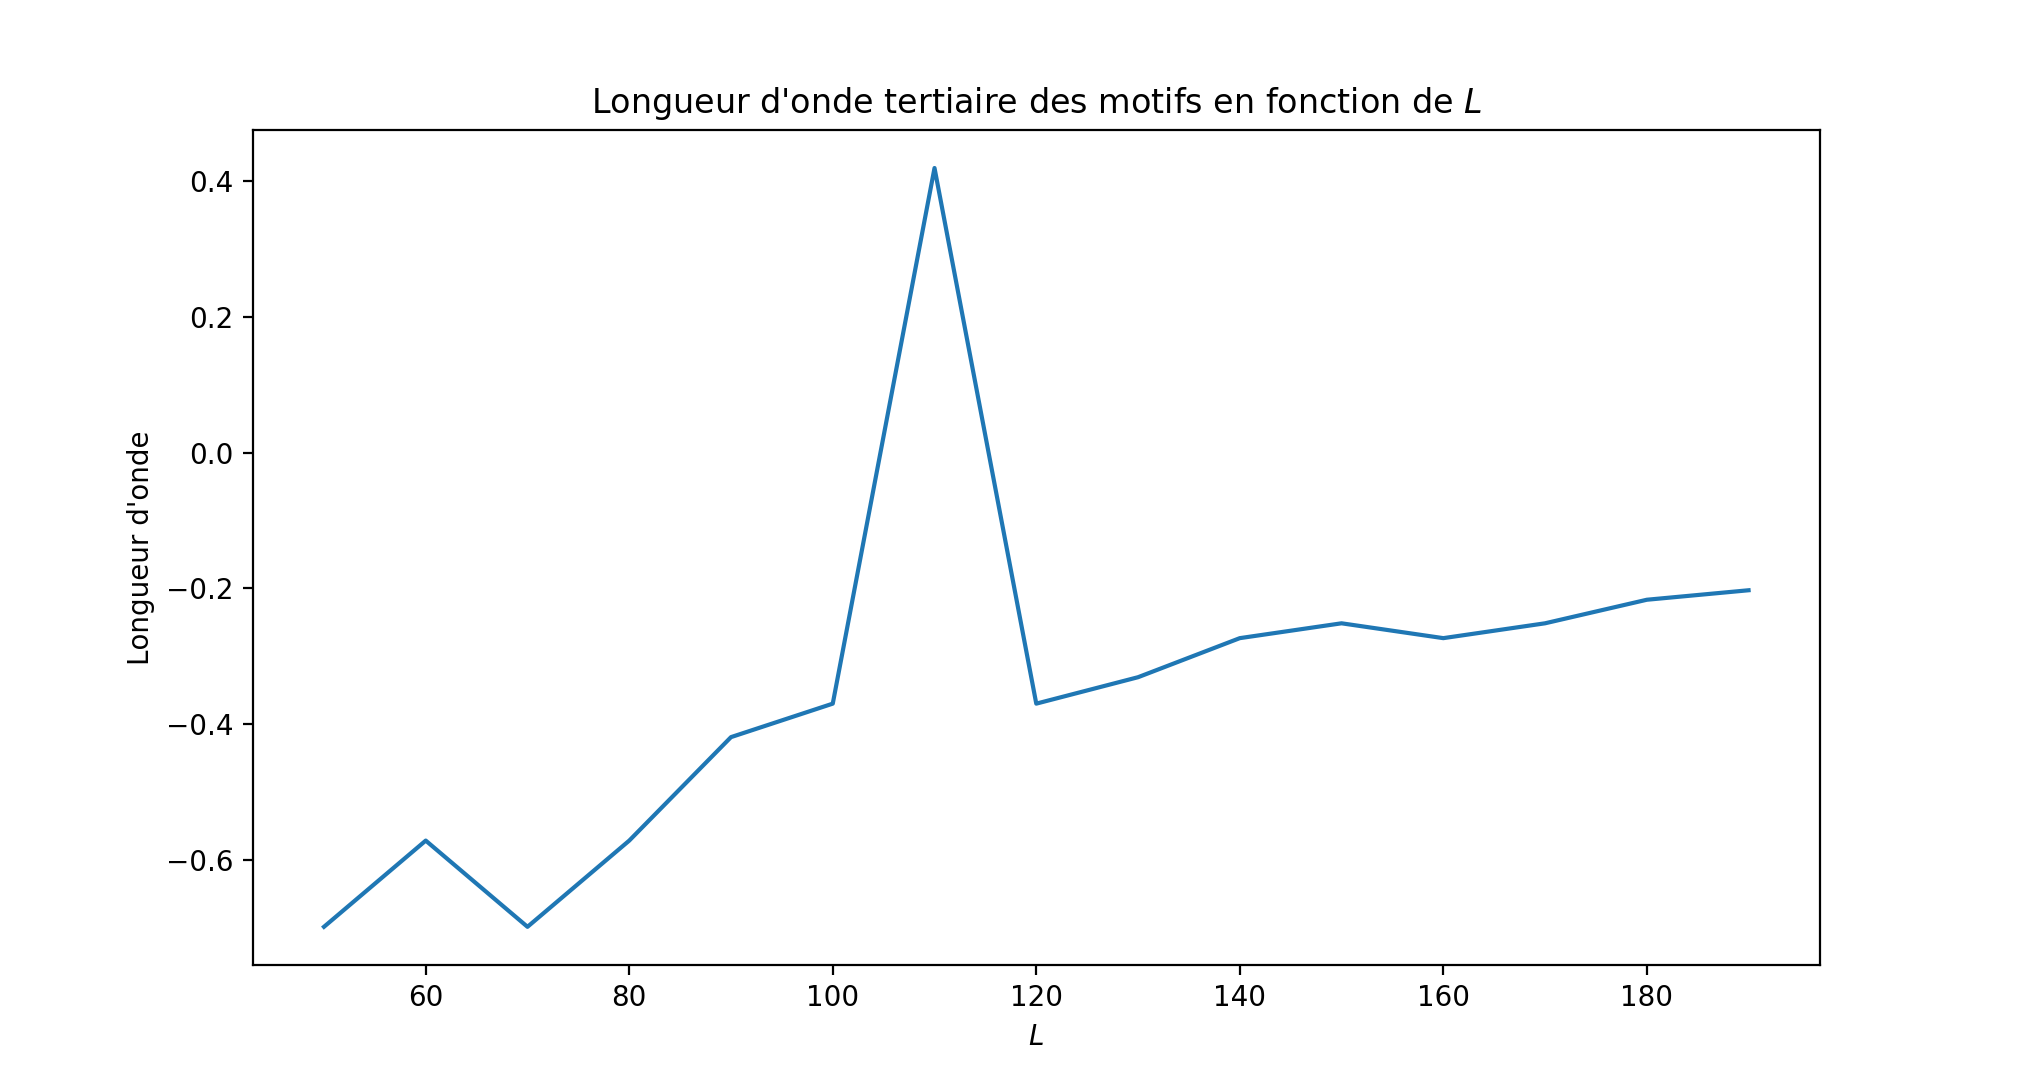
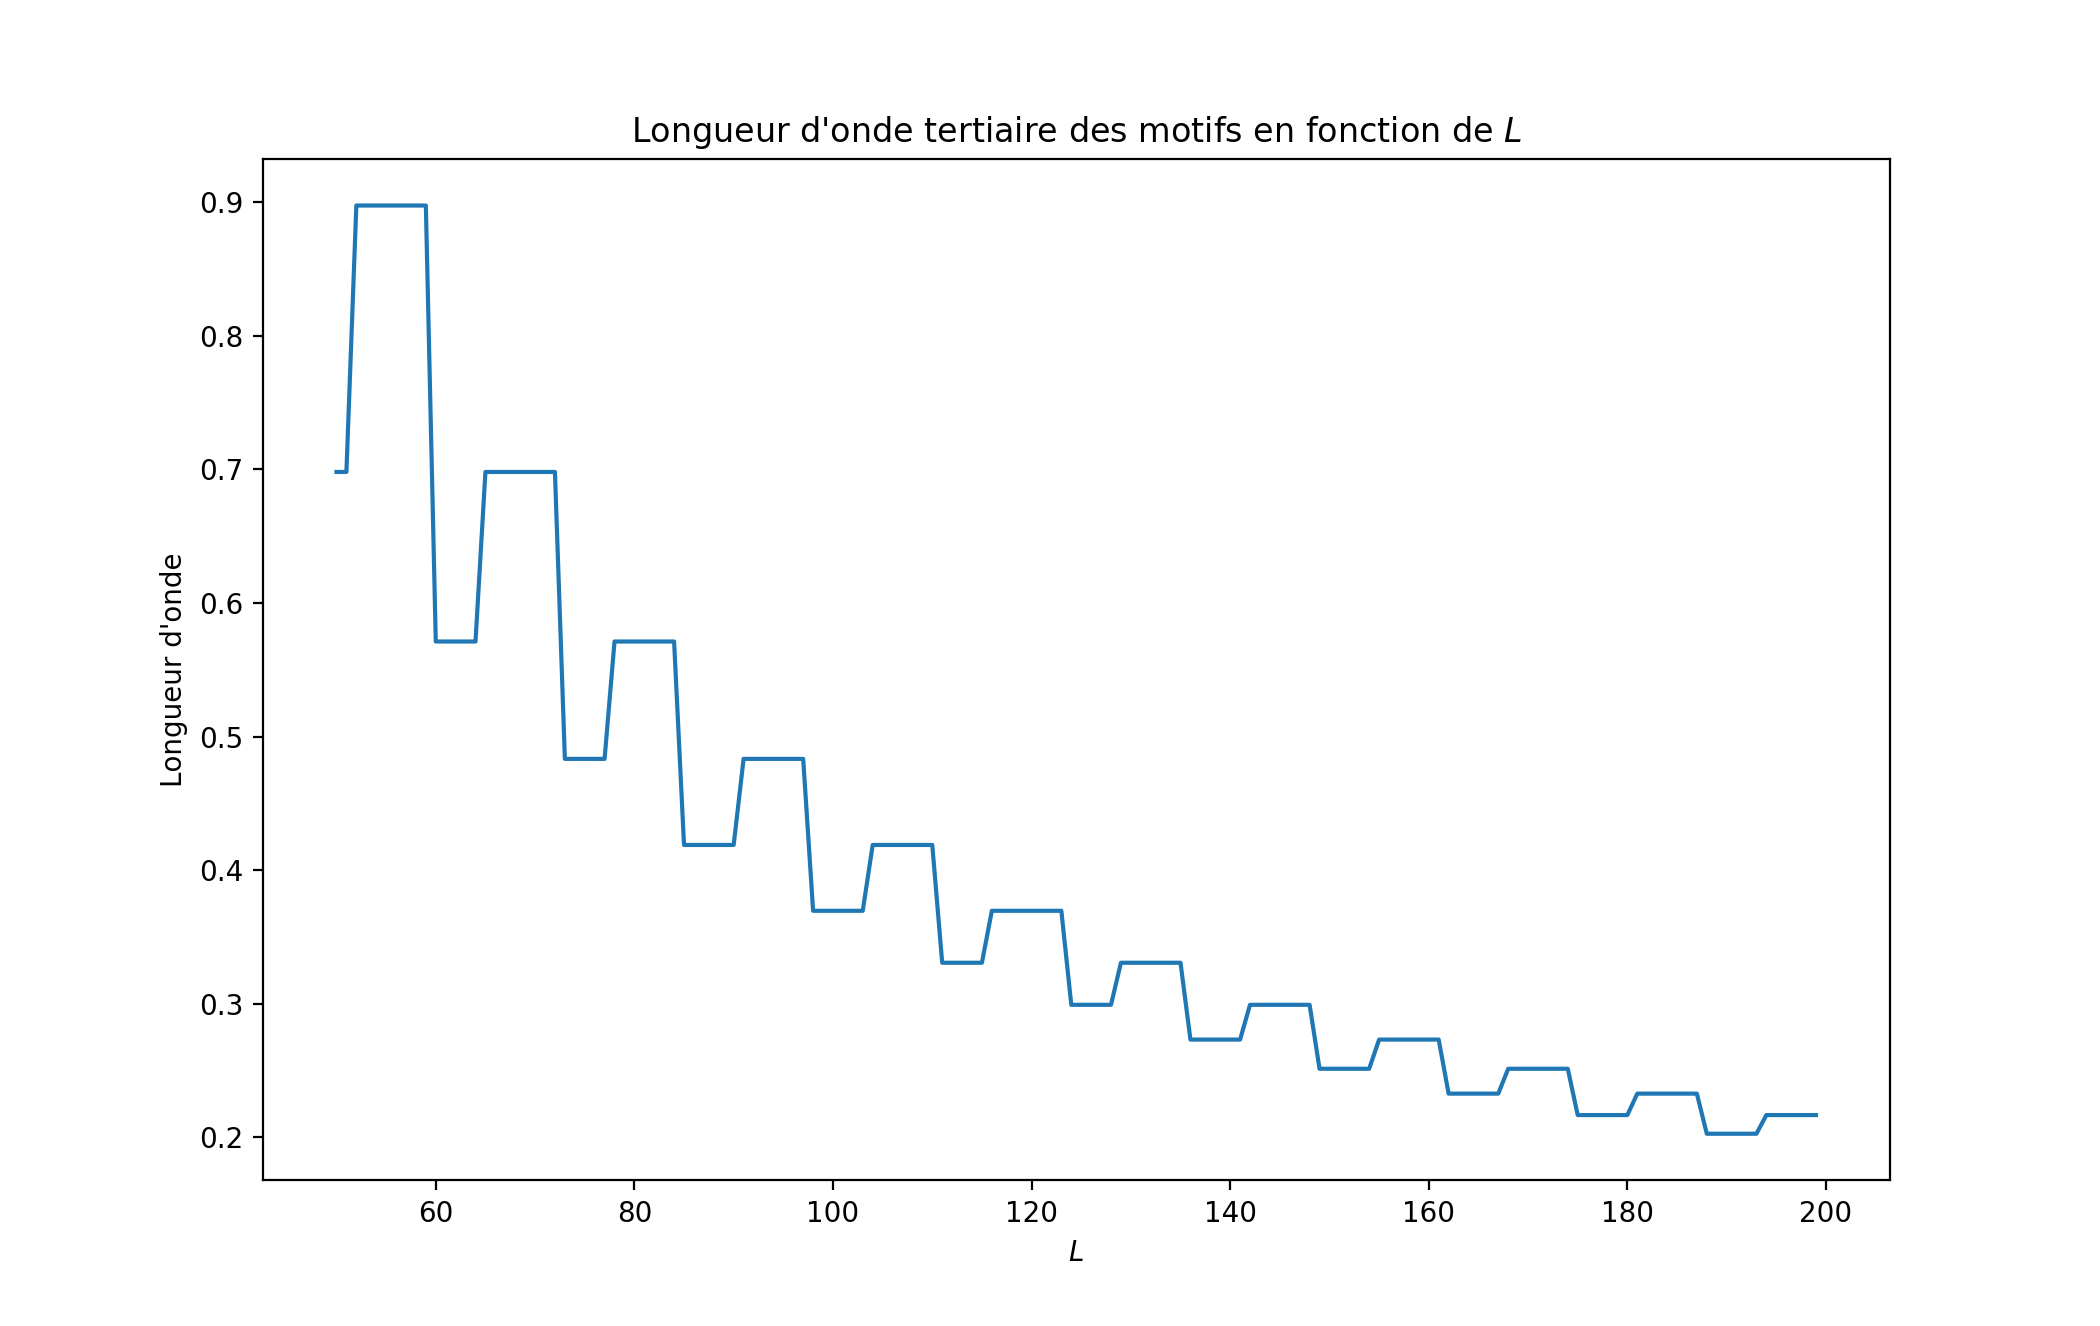
Corr mesure de A et longueurs d'onde

diff --git a/pattern.py b/pattern.py
@@ -299,9 +299,9 @@ def L_effect(u0, L_range):
     for n,l in enumerate(L_range):
         t_,l_ = tl_mesure(u0, r, l)
         time[n] = t_
-        wavelength1[n] = l_[0]
-        wavelength2[n] = l_[1]
-        wavelength3[n] = l_[2]
+        wavelength1[n] = np.abs(l_[0])
+        wavelength2[n] = np.abs(l_[1])
+        wavelength3[n] = np.abs(l_[2])
 
     plt.plot(L_range, time)
     plt.xlabel("$L$")
@@ -335,7 +335,7 @@ def L_effect(u0, L_range):
 
 #rL_effect(u_0, np.arange(-0.05,0.25,0.05), [25,50,100,150,200])
 #r_effect(u_0, np.arange(-0.05, 0.25, 0.01))
-L_effect(u_0, np.arange(50,200, 10))
+L_effect(u_0, np.arange(50,200, 1))
 
 
 ########################################## Ex2, mesure de A^2 et diagrame de bifurcation##############################################
@@ -395,7 +395,7 @@ def A_mesure(f0,r,L):
 
 def r_bifurcation(u0, r_range):
     integ = np.zeros((len(r_range)))
-    L = 25
+    L = 60
 
     for n,r in enumerate(r_range):
         A_ = A_mesure(u0, r, L)
@@ -428,4 +428,4 @@ def r_bifurcation(u0, r_range):
 
     return integ
 
-r_bifurcation(u_0, np.arange(-0.01,0.07,0.002))
+r_bifurcation(u_0, np.arange(-0.01,0.07,0.004))
